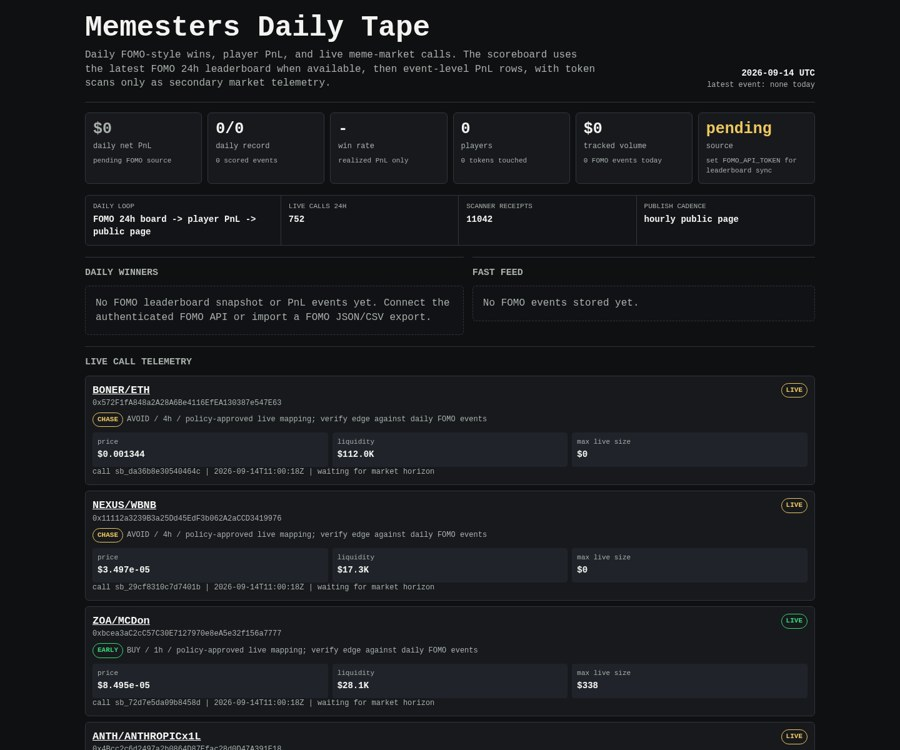
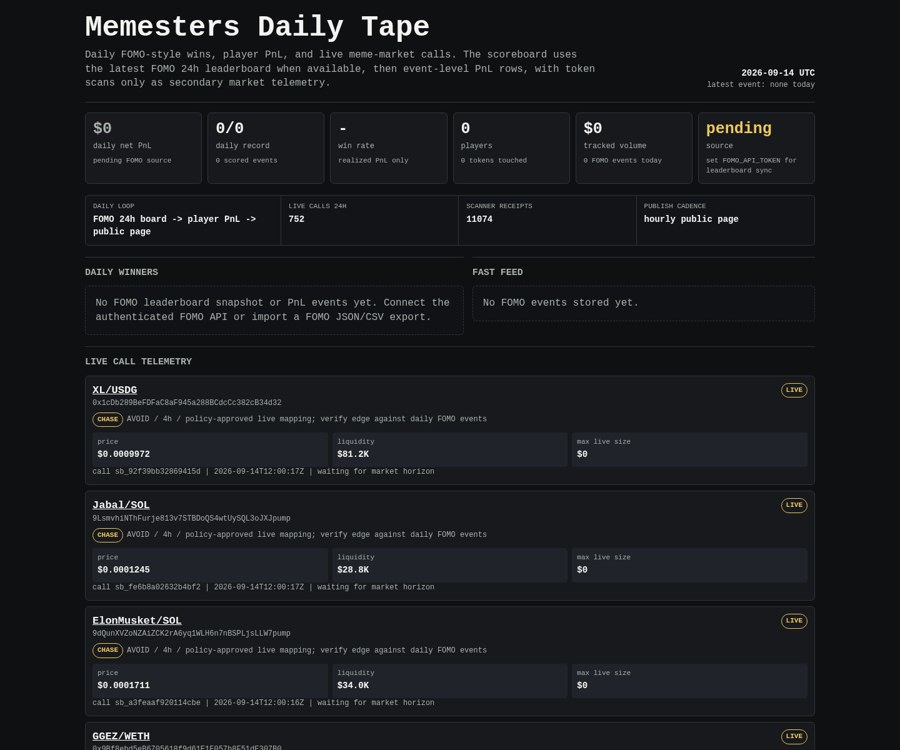
Update Memesters scoreboard

diff --git a/memesters/index.html b/memesters/index.html
@@ -150,7 +150,7 @@
     <div class="rail" aria-label="live operating loop">
       <div><span>daily loop</span><b>FOMO 24h board -> player PnL -> public page</b></div>
       <div><span>live calls 24h</span><b>752</b></div>
-      <div><span>scanner receipts</span><b>11042</b></div>
+      <div><span>scanner receipts</span><b>11074</b></div>
       <div><span>publish cadence</span><b>hourly public page</b></div>
     </div>
 
@@ -171,8 +171,8 @@
     <article class="receipt">
       <div class="receipt-head">
         <div>
-          <div class="pair"><a href="https://dexscreener.com/robinhood/0x2756a326dd21035b096e695e0dcaa97a6470e49a23f326e7f228b41e30402e7c">BONER/ETH</a></div>
-          <div class="addr">0x572F1fA848a2A28A6Be4116EfEA130387e547E63</div>
+          <div class="pair"><a href="https://dexscreener.com/robinhood/0x713aba0fa3f49c07d2f60c064464868ac7798f57c3cd3298f784db8b4054d503">XL/USDG</a></div>
+          <div class="addr">0x1cDb289BeFDFaC8aF945a288BCdcCc382cB34d32</div>
           <div class="addr policy-line">
             <span class="badge chase">CHASE</span>
             <span>AVOID / 4h / policy-approved live mapping; verify edge against daily FOMO events</span>
@@ -181,19 +181,19 @@
         <span class="badge chase">LIVE</span>
       </div>
       <div class="receipt-grid">
-        <div class="kv"><span>price</span><b>$0.001344</b></div>
-        <div class="kv"><span>liquidity</span><b>$112.0K</b></div>
+        <div class="kv"><span>price</span><b>$0.0009972</b></div>
+        <div class="kv"><span>liquidity</span><b>$81.2K</b></div>
         <div class="kv"><span>max live size</span><b>$0</b></div>
       </div>
-      <div class="outcomes">call sb_da36b8e30540464c | 2026-09-14T11:00:18Z | waiting for market horizon</div>
+      <div class="outcomes">call sb_92f39bb32869415d | 2026-09-14T12:00:17Z | waiting for market horizon</div>
     </article>
     
 
     <article class="receipt">
       <div class="receipt-head">
         <div>
-          <div class="pair"><a href="https://dexscreener.com/bsc/0x9733967d0ab4f64272ee525d0268404ebd796a5e">NEXUS/WBNB</a></div>
-          <div class="addr">0x11112a3239B3a25Dd45EdF3b062A2aCCD3419976</div>
+          <div class="pair"><a href="https://dexscreener.com/solana/2sxa5dvoje7k4apngtaz3v7ux8rmet1rtfehxeapegmt">Jabal/SOL</a></div>
+          <div class="addr">9LsmvhiNThFurje813v7STBDoQS4wtUySQL3oJXJpump</div>
           <div class="addr policy-line">
             <span class="badge chase">CHASE</span>
             <span>AVOID / 4h / policy-approved live mapping; verify edge against daily FOMO events</span>
@@ -202,40 +202,19 @@
         <span class="badge chase">LIVE</span>
       </div>
       <div class="receipt-grid">
-        <div class="kv"><span>price</span><b>$3.497e-05</b></div>
-        <div class="kv"><span>liquidity</span><b>$17.3K</b></div>
+        <div class="kv"><span>price</span><b>$0.0001245</b></div>
+        <div class="kv"><span>liquidity</span><b>$28.8K</b></div>
         <div class="kv"><span>max live size</span><b>$0</b></div>
       </div>
-      <div class="outcomes">call sb_29cf8310c7d7401b | 2026-09-14T11:00:18Z | waiting for market horizon</div>
+      <div class="outcomes">call sb_fe6b8a02632b4bf2 | 2026-09-14T12:00:17Z | waiting for market horizon</div>
     </article>
     
 
     <article class="receipt">
       <div class="receipt-head">
         <div>
-          <div class="pair"><a href="https://dexscreener.com/bsc/0x806f1afabbbcf28d1a96906f852c7297a898661b">ZOA/MCDon</a></div>
-          <div class="addr">0xbcea3aC2cC57C30E7127970e8eA5e32f156a7777</div>
-          <div class="addr policy-line">
-            <span class="badge early">EARLY</span>
-            <span>BUY / 1h / policy-approved live mapping; verify edge against daily FOMO events</span>
-          </div>
-        </div>
-        <span class="badge early">LIVE</span>
-      </div>
-      <div class="receipt-grid">
-        <div class="kv"><span>price</span><b>$8.495e-05</b></div>
-        <div class="kv"><span>liquidity</span><b>$28.1K</b></div>
-        <div class="kv"><span>max live size</span><b>$338</b></div>
-      </div>
-      <div class="outcomes">call sb_72d7e5da09b8458d | 2026-09-14T11:00:18Z | waiting for market horizon</div>
-    </article>
-    
-
-    <article class="receipt">
-      <div class="receipt-head">
-        <div>
-          <div class="pair"><a href="https://dexscreener.com/robinhood/0xa07989b26b114569d3b04cf276de3d5a1924bbad291a91d33f6f27f6f594809d">ANTH/ANTHROPICx1L</a></div>
-          <div class="addr">0x4Bcc2c6d2497a2b0864D87Efac28d0D47A391E18</div>
+          <div class="pair"><a href="https://dexscreener.com/solana/6wm3dqqhumqpjcwm89jng6v8jx9g2onfdbfjs6ezq9dw">ElonMusket/SOL</a></div>
+          <div class="addr">9dQunXVZoNZAiZCK2rA6yq1WLH6n7nBSPLjsLLW7pump</div>
           <div class="addr policy-line">
             <span class="badge chase">CHASE</span>
             <span>AVOID / 4h / policy-approved live mapping; verify edge against daily FOMO events</span>
@@ -244,40 +223,19 @@
         <span class="badge chase">LIVE</span>
       </div>
       <div class="receipt-grid">
-        <div class="kv"><span>price</span><b>$0.0001351</b></div>
-        <div class="kv"><span>liquidity</span><b>$117.5K</b></div>
+        <div class="kv"><span>price</span><b>$0.0001711</b></div>
+        <div class="kv"><span>liquidity</span><b>$34.0K</b></div>
         <div class="kv"><span>max live size</span><b>$0</b></div>
       </div>
-      <div class="outcomes">call sb_f2c1e27ae4024e23 | 2026-09-14T11:00:18Z | waiting for market horizon</div>
+      <div class="outcomes">call sb_a3feaaf920114cbe | 2026-09-14T12:00:16Z | waiting for market horizon</div>
     </article>
     
 
     <article class="receipt">
       <div class="receipt-head">
         <div>
-          <div class="pair"><a href="https://dexscreener.com/solana/e2zshys2spi8varp3d97nrdpche2qdchxldocfmszgcf">POKECOIN/CARDS</a></div>
-          <div class="addr">GADj8JQ8iQLQD5S6ScvncJWmGs7PkwHnXsBrEUns6ue5</div>
-          <div class="addr policy-line">
-            <span class="badge early">EARLY</span>
-            <span>BUY / 1h / policy-approved live mapping; verify edge against daily FOMO events</span>
-          </div>
-        </div>
-        <span class="badge early">LIVE</span>
-      </div>
-      <div class="receipt-grid">
-        <div class="kv"><span>price</span><b>$0.000128</b></div>
-        <div class="kv"><span>liquidity</span><b>$31.2K</b></div>
-        <div class="kv"><span>max live size</span><b>$374</b></div>
-      </div>
-      <div class="outcomes">call sb_84b2753bf2c2439b | 2026-09-14T11:00:18Z | waiting for market horizon</div>
-    </article>
-    
-
-    <article class="receipt">
-      <div class="receipt-head">
-        <div>
-          <div class="pair"><a href="https://dexscreener.com/robinhood/0x4a6e7727e7f681d97024f7700e8fd5b2e0011163">DJT/WETH</a></div>
-          <div class="addr">0xC388304B9cFC22Ff8ebFa4528f59B4F5C9952515</div>
+          <div class="pair"><a href="https://dexscreener.com/robinhood/0x721c6fa2668c8c65537ab4129912d0f629da1e83">GGEZ/WETH</a></div>
+          <div class="addr">0x9Bf8ebd5eB6705618f9d61E1E057b8F51dE307B0</div>
           <div class="addr policy-line">
             <span class="badge chase">CHASE</span>
             <span>AVOID / 4h / policy-approved live mapping; verify edge against daily FOMO events</span>
@@ -286,19 +244,19 @@
         <span class="badge chase">LIVE</span>
       </div>
       <div class="receipt-grid">
-        <div class="kv"><span>price</span><b>$0.001152</b></div>
-        <div class="kv"><span>liquidity</span><b>$58.0K</b></div>
+        <div class="kv"><span>price</span><b>$0.0003383</b></div>
+        <div class="kv"><span>liquidity</span><b>$112.3K</b></div>
         <div class="kv"><span>max live size</span><b>$0</b></div>
       </div>
-      <div class="outcomes">call sb_0e6cd84d1c59435a | 2026-09-14T11:00:18Z | waiting for market horizon</div>
+      <div class="outcomes">call sb_787a983cb5a44b12 | 2026-09-14T12:00:16Z | waiting for market horizon</div>
     </article>
     
 
     <article class="receipt">
       <div class="receipt-head">
         <div>
-          <div class="pair"><a href="https://dexscreener.com/solana/hyzpehdqxkm8bdrvg6v1ari7bwxbciegvjhjurzta6nm">epeP/SOL</a></div>
-          <div class="addr">97DM78e7YH9QtfsViPtFbToMJG5CNMx8eFTFDGEZpump</div>
+          <div class="pair"><a href="https://dexscreener.com/bsc/0xabb55608cdc1fc2a97386278fcdd54d9739647d6">MROF/FORM</a></div>
+          <div class="addr">0x8211796E1373c3a8011Aa8068B6052b9F91D7777</div>
           <div class="addr policy-line">
             <span class="badge chase">CHASE</span>
             <span>AVOID / 4h / policy-approved live mapping; verify edge against daily FOMO events</span>
@@ -307,19 +265,40 @@
         <span class="badge chase">LIVE</span>
       </div>
       <div class="receipt-grid">
-        <div class="kv"><span>price</span><b>$8.759e-05</b></div>
-        <div class="kv"><span>liquidity</span><b>$24.5K</b></div>
+        <div class="kv"><span>price</span><b>$1.653e-05</b></div>
+        <div class="kv"><span>liquidity</span><b>$16.9K</b></div>
         <div class="kv"><span>max live size</span><b>$0</b></div>
       </div>
-      <div class="outcomes">call sb_22c49d09cb35418c | 2026-09-14T11:00:18Z | waiting for market horizon</div>
+      <div class="outcomes">call sb_a5c0816df2c64b95 | 2026-09-14T12:00:16Z | waiting for market horizon</div>
     </article>
     
 
     <article class="receipt">
       <div class="receipt-head">
         <div>
-          <div class="pair"><a href="https://dexscreener.com/robinhood/0xc97a988956f1dee7da5eeebff6e723e5d1a22a7b45943dd8b163559fa2b78fff">PROHUMAN/WETH</a></div>
-          <div class="addr">0x2042EB667C4Ab924cEd758DAfB0bEcf1a4AB5d71</div>
+          <div class="pair"><a href="https://dexscreener.com/solana/fyotxz5arx4vqbkjxaiqcxpph8nzdxqys1qqq3jyp2g1">DANCINGCATE/SOL</a></div>
+          <div class="addr">6S4NhcyrqgzifrenZw9pg6inGdXpK766NfYzErdfpump</div>
+          <div class="addr policy-line">
+            <span class="badge rug-risk">RUG RISK</span>
+            <span>AVOID / 4h / policy-approved live mapping; verify edge against daily FOMO events</span>
+          </div>
+        </div>
+        <span class="badge rug-risk">LIVE</span>
+      </div>
+      <div class="receipt-grid">
+        <div class="kv"><span>price</span><b>$2.02e-06</b></div>
+        <div class="kv"><span>liquidity</span><b>$2.1K</b></div>
+        <div class="kv"><span>max live size</span><b>$0</b></div>
+      </div>
+      <div class="outcomes">call sb_7993b57f93254d94 | 2026-09-14T12:00:16Z | waiting for market horizon</div>
+    </article>
+    
+
+    <article class="receipt">
+      <div class="receipt-head">
+        <div>
+          <div class="pair"><a href="https://dexscreener.com/robinhood/0x88bc644b1ac142faf16c5fe71748104f222881be537fdbc886edc4dbb5cfca62">ZC/ETH</a></div>
+          <div class="addr">0xDA255019C73ceb94A5acc9bfB7Ff7ABb3DC34A64</div>
           <div class="addr policy-line">
             <span class="badge chase">CHASE</span>
             <span>AVOID / 4h / policy-approved live mapping; verify edge against daily FOMO events</span>
@@ -328,19 +307,19 @@
         <span class="badge chase">LIVE</span>
       </div>
       <div class="receipt-grid">
-        <div class="kv"><span>price</span><b>$3.015e-05</b></div>
-        <div class="kv"><span>liquidity</span><b>$24.8K</b></div>
+        <div class="kv"><span>price</span><b>$0.0007125</b></div>
+        <div class="kv"><span>liquidity</span><b>$81.1K</b></div>
         <div class="kv"><span>max live size</span><b>$0</b></div>
       </div>
-      <div class="outcomes">call sb_e234e5e35c8d4754 | 2026-09-14T11:00:18Z | waiting for market horizon</div>
+      <div class="outcomes">call sb_7e7512897c7a4969 | 2026-09-14T12:00:16Z | waiting for market horizon</div>
     </article>
     
 
     <article class="receipt">
       <div class="receipt-head">
         <div>
-          <div class="pair"><a href="https://dexscreener.com/solana/5zq2fnbmypkvv9bhnz7q8kppybwrwys7kjczfn1ux86w">BABYEMBER/EMBER</a></div>
-          <div class="addr">3jpTCr7nMSkeskqyWEGStMXQ6Jye9eW4LWZpKqEBpxBH</div>
+          <div class="pair"><a href="https://dexscreener.com/bsc/0x948b4f661ae6bbe502b17e98a961b894589144c4">PANDAPAD/WBNB</a></div>
+          <div class="addr">0x29dd75E421cfDeff991f3751F02cC4aFFed69999</div>
           <div class="addr policy-line">
             <span class="badge chase">CHASE</span>
             <span>AVOID / 4h / policy-approved live mapping; verify edge against daily FOMO events</span>
@@ -349,32 +328,53 @@
         <span class="badge chase">LIVE</span>
       </div>
       <div class="receipt-grid">
-        <div class="kv"><span>price</span><b>$2.067e-05</b></div>
-        <div class="kv"><span>liquidity</span><b>$11.0K</b></div>
+        <div class="kv"><span>price</span><b>$6.672e-05</b></div>
+        <div class="kv"><span>liquidity</span><b>$25.4K</b></div>
         <div class="kv"><span>max live size</span><b>$0</b></div>
       </div>
-      <div class="outcomes">call sb_b3e4cb4835cd44e5 | 2026-09-14T10:45:16Z | waiting for market horizon</div>
+      <div class="outcomes">call sb_32ed7b50266a4124 | 2026-09-14T12:00:16Z | waiting for market horizon</div>
     </article>
     
 
     <article class="receipt">
       <div class="receipt-head">
         <div>
-          <div class="pair"><a href="https://dexscreener.com/robinhood/0x68b4623d2828a045dba7896eb9d3e9d85164c511">HOODUBU/WETH</a></div>
-          <div class="addr">0x9420D754803BBAf1867B99864e58EECdf1a4b1aF</div>
+          <div class="pair"><a href="https://dexscreener.com/robinhood/0x7ead9ba857f6433f7ccfb3c93172996f74098b1ab1ca825b4ac2714b525e55f3">GP/ETH</a></div>
+          <div class="addr">0x7fAd0045F67a19506c7954Dfc13bb8F7d0b042Ae</div>
           <div class="addr policy-line">
-            <span class="badge early">EARLY</span>
-            <span>BUY / 1h / policy-approved live mapping; verify edge against daily FOMO events</span>
+            <span class="badge rug-risk">RUG RISK</span>
+            <span>AVOID / 4h / policy-approved live mapping; verify edge against daily FOMO events</span>
           </div>
         </div>
-        <span class="badge early">LIVE</span>
+        <span class="badge rug-risk">LIVE</span>
       </div>
       <div class="receipt-grid">
-        <div class="kv"><span>price</span><b>$8.09e-06</b></div>
-        <div class="kv"><span>liquidity</span><b>$7.2K</b></div>
-        <div class="kv"><span>max live size</span><b>$25</b></div>
+        <div class="kv"><span>price</span><b>$3.743e-06</b></div>
+        <div class="kv"><span>liquidity</span><b>$5.7K</b></div>
+        <div class="kv"><span>max live size</span><b>$0</b></div>
       </div>
-      <div class="outcomes">call sb_eac1e8ff508040a5 | 2026-09-14T10:45:16Z | waiting for market horizon</div>
+      <div class="outcomes">call sb_7051fb4255f84d15 | 2026-09-14T11:45:18Z | waiting for market horizon</div>
+    </article>
+    
+
+    <article class="receipt">
+      <div class="receipt-head">
+        <div>
+          <div class="pair"><a href="https://dexscreener.com/robinhood/0x713aba0fa3f49c07d2f60c064464868ac7798f57c3cd3298f784db8b4054d503">XL/USDG</a></div>
+          <div class="addr">0x1cDb289BeFDFaC8aF945a288BCdcCc382cB34d32</div>
+          <div class="addr policy-line">
+            <span class="badge chase">CHASE</span>
+            <span>AVOID / 4h / policy-approved live mapping; verify edge against daily FOMO events</span>
+          </div>
+        </div>
+        <span class="badge chase">LIVE</span>
+      </div>
+      <div class="receipt-grid">
+        <div class="kv"><span>price</span><b>$0.001129</b></div>
+        <div class="kv"><span>liquidity</span><b>$86.4K</b></div>
+        <div class="kv"><span>max live size</span><b>$0</b></div>
+      </div>
+      <div class="outcomes">call sb_f491939d8150441e | 2026-09-14T11:45:18Z | waiting for market horizon</div>
     </article>
     
     </section>
